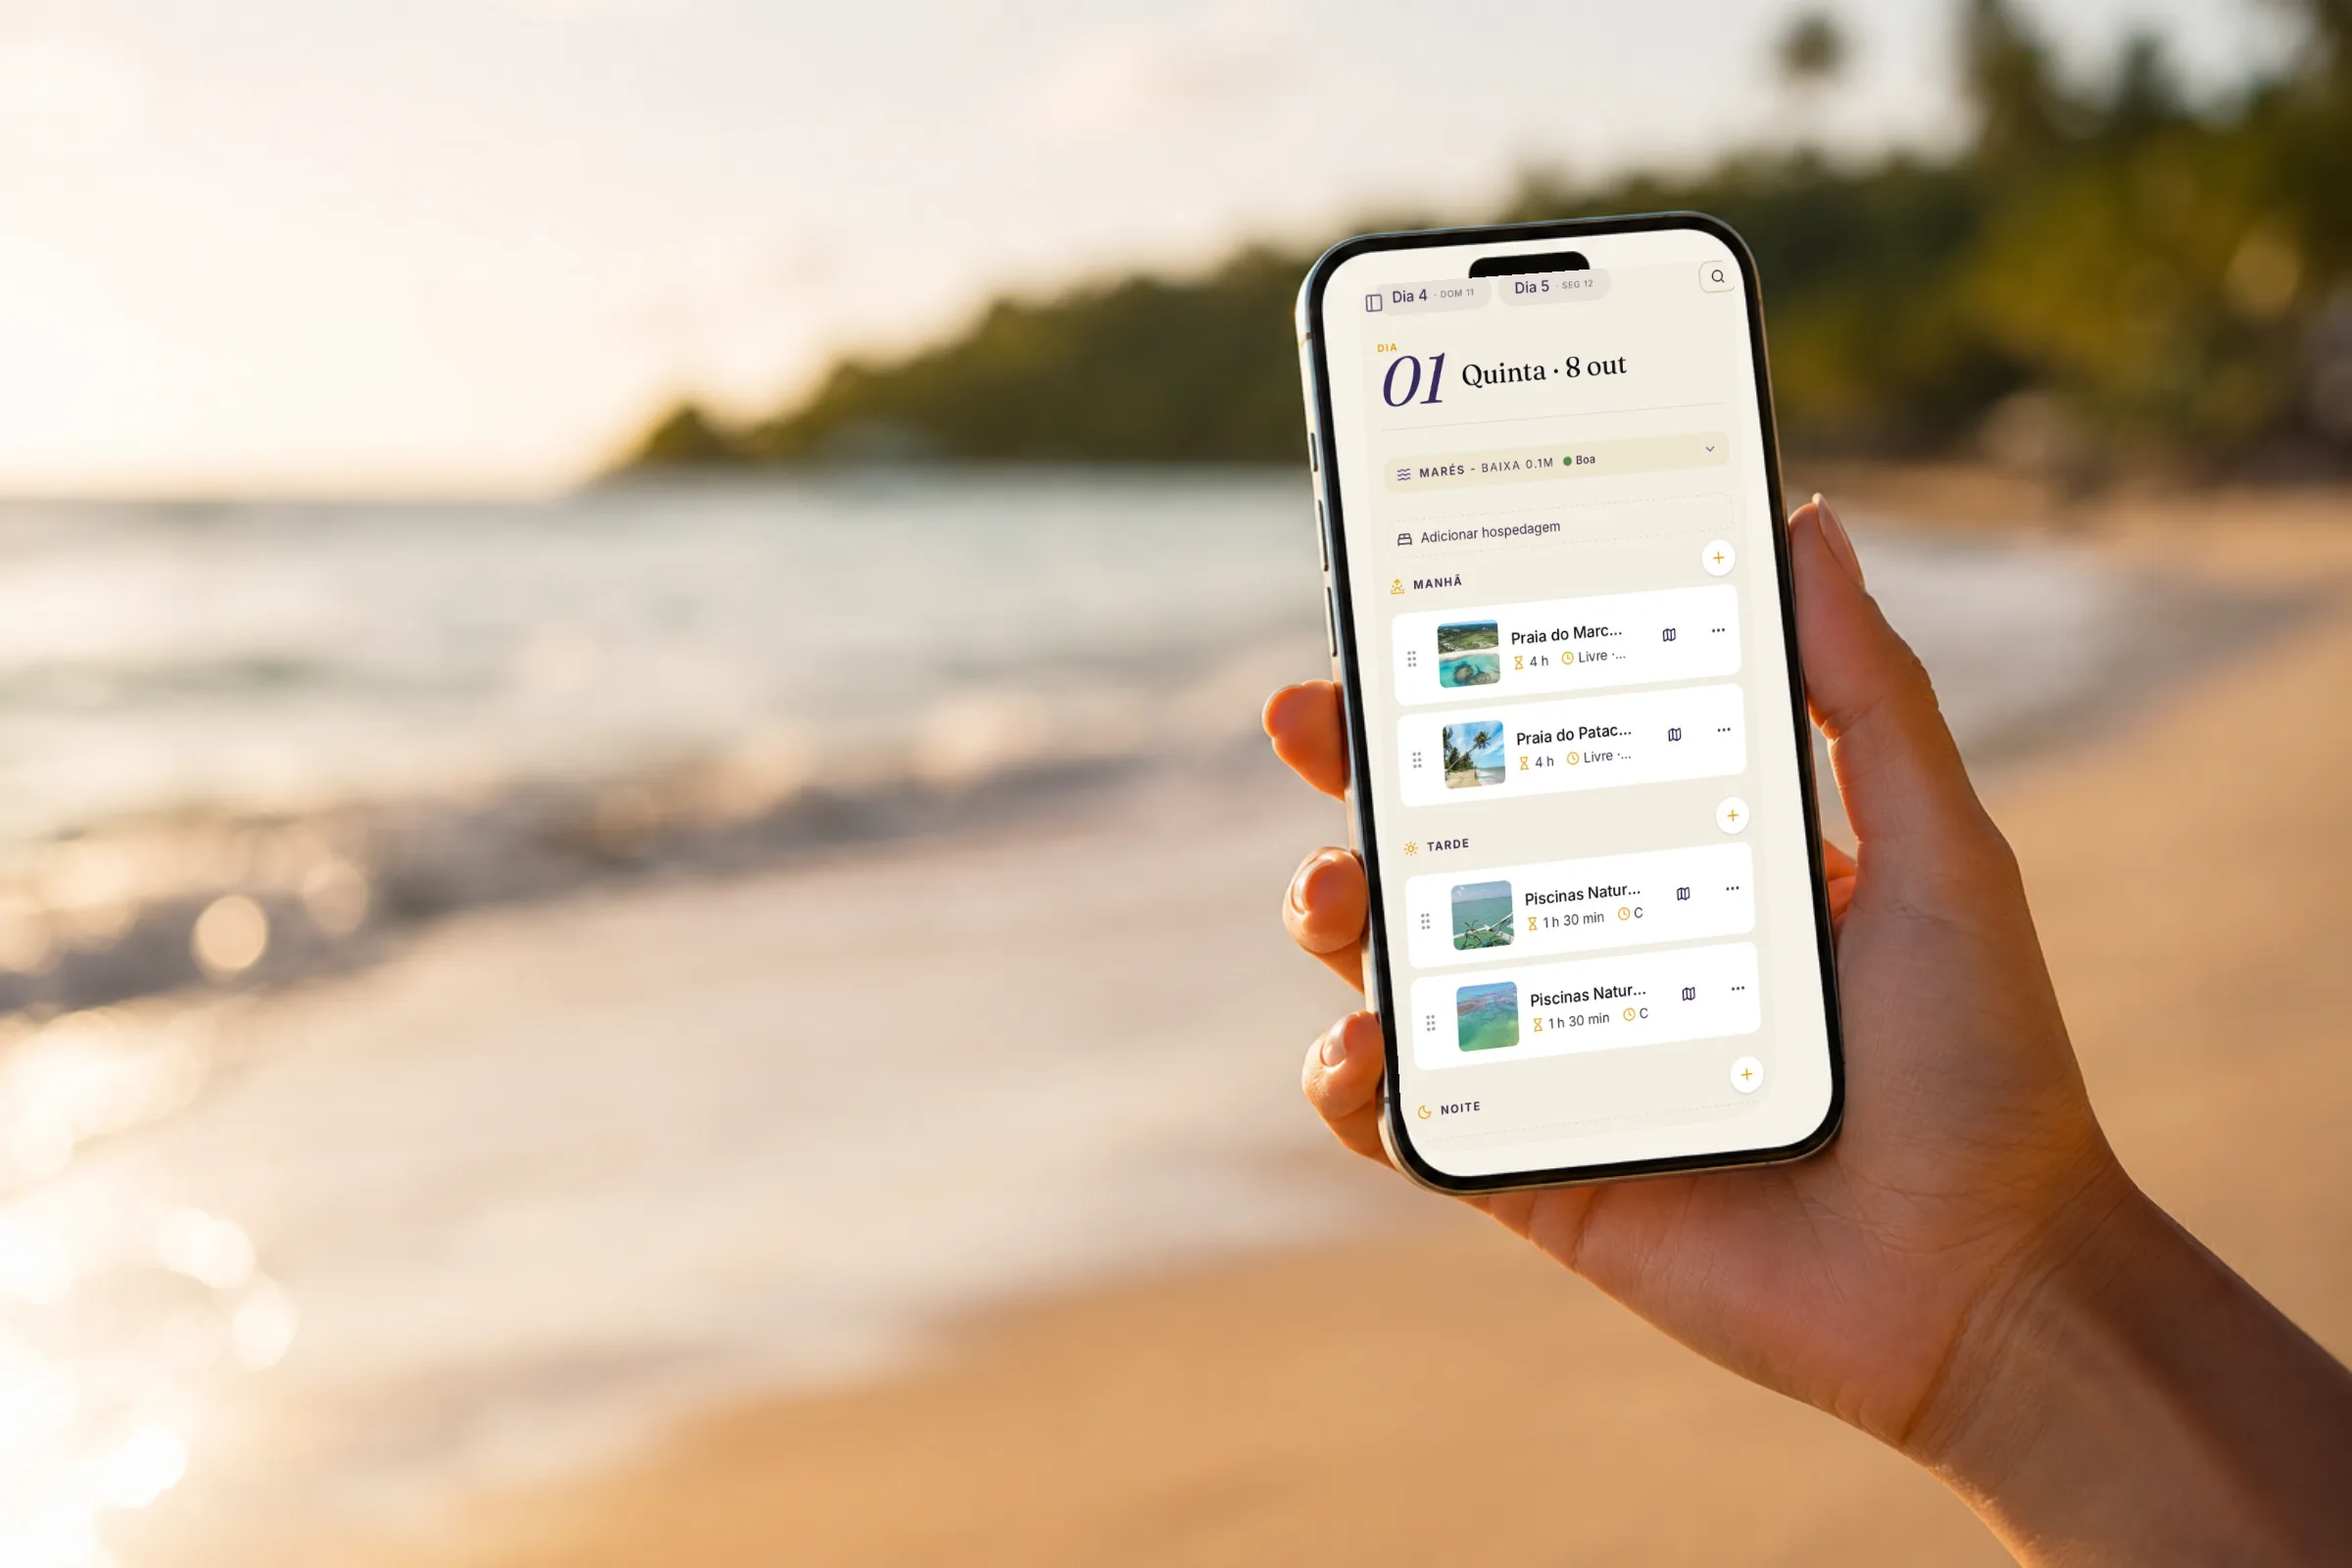
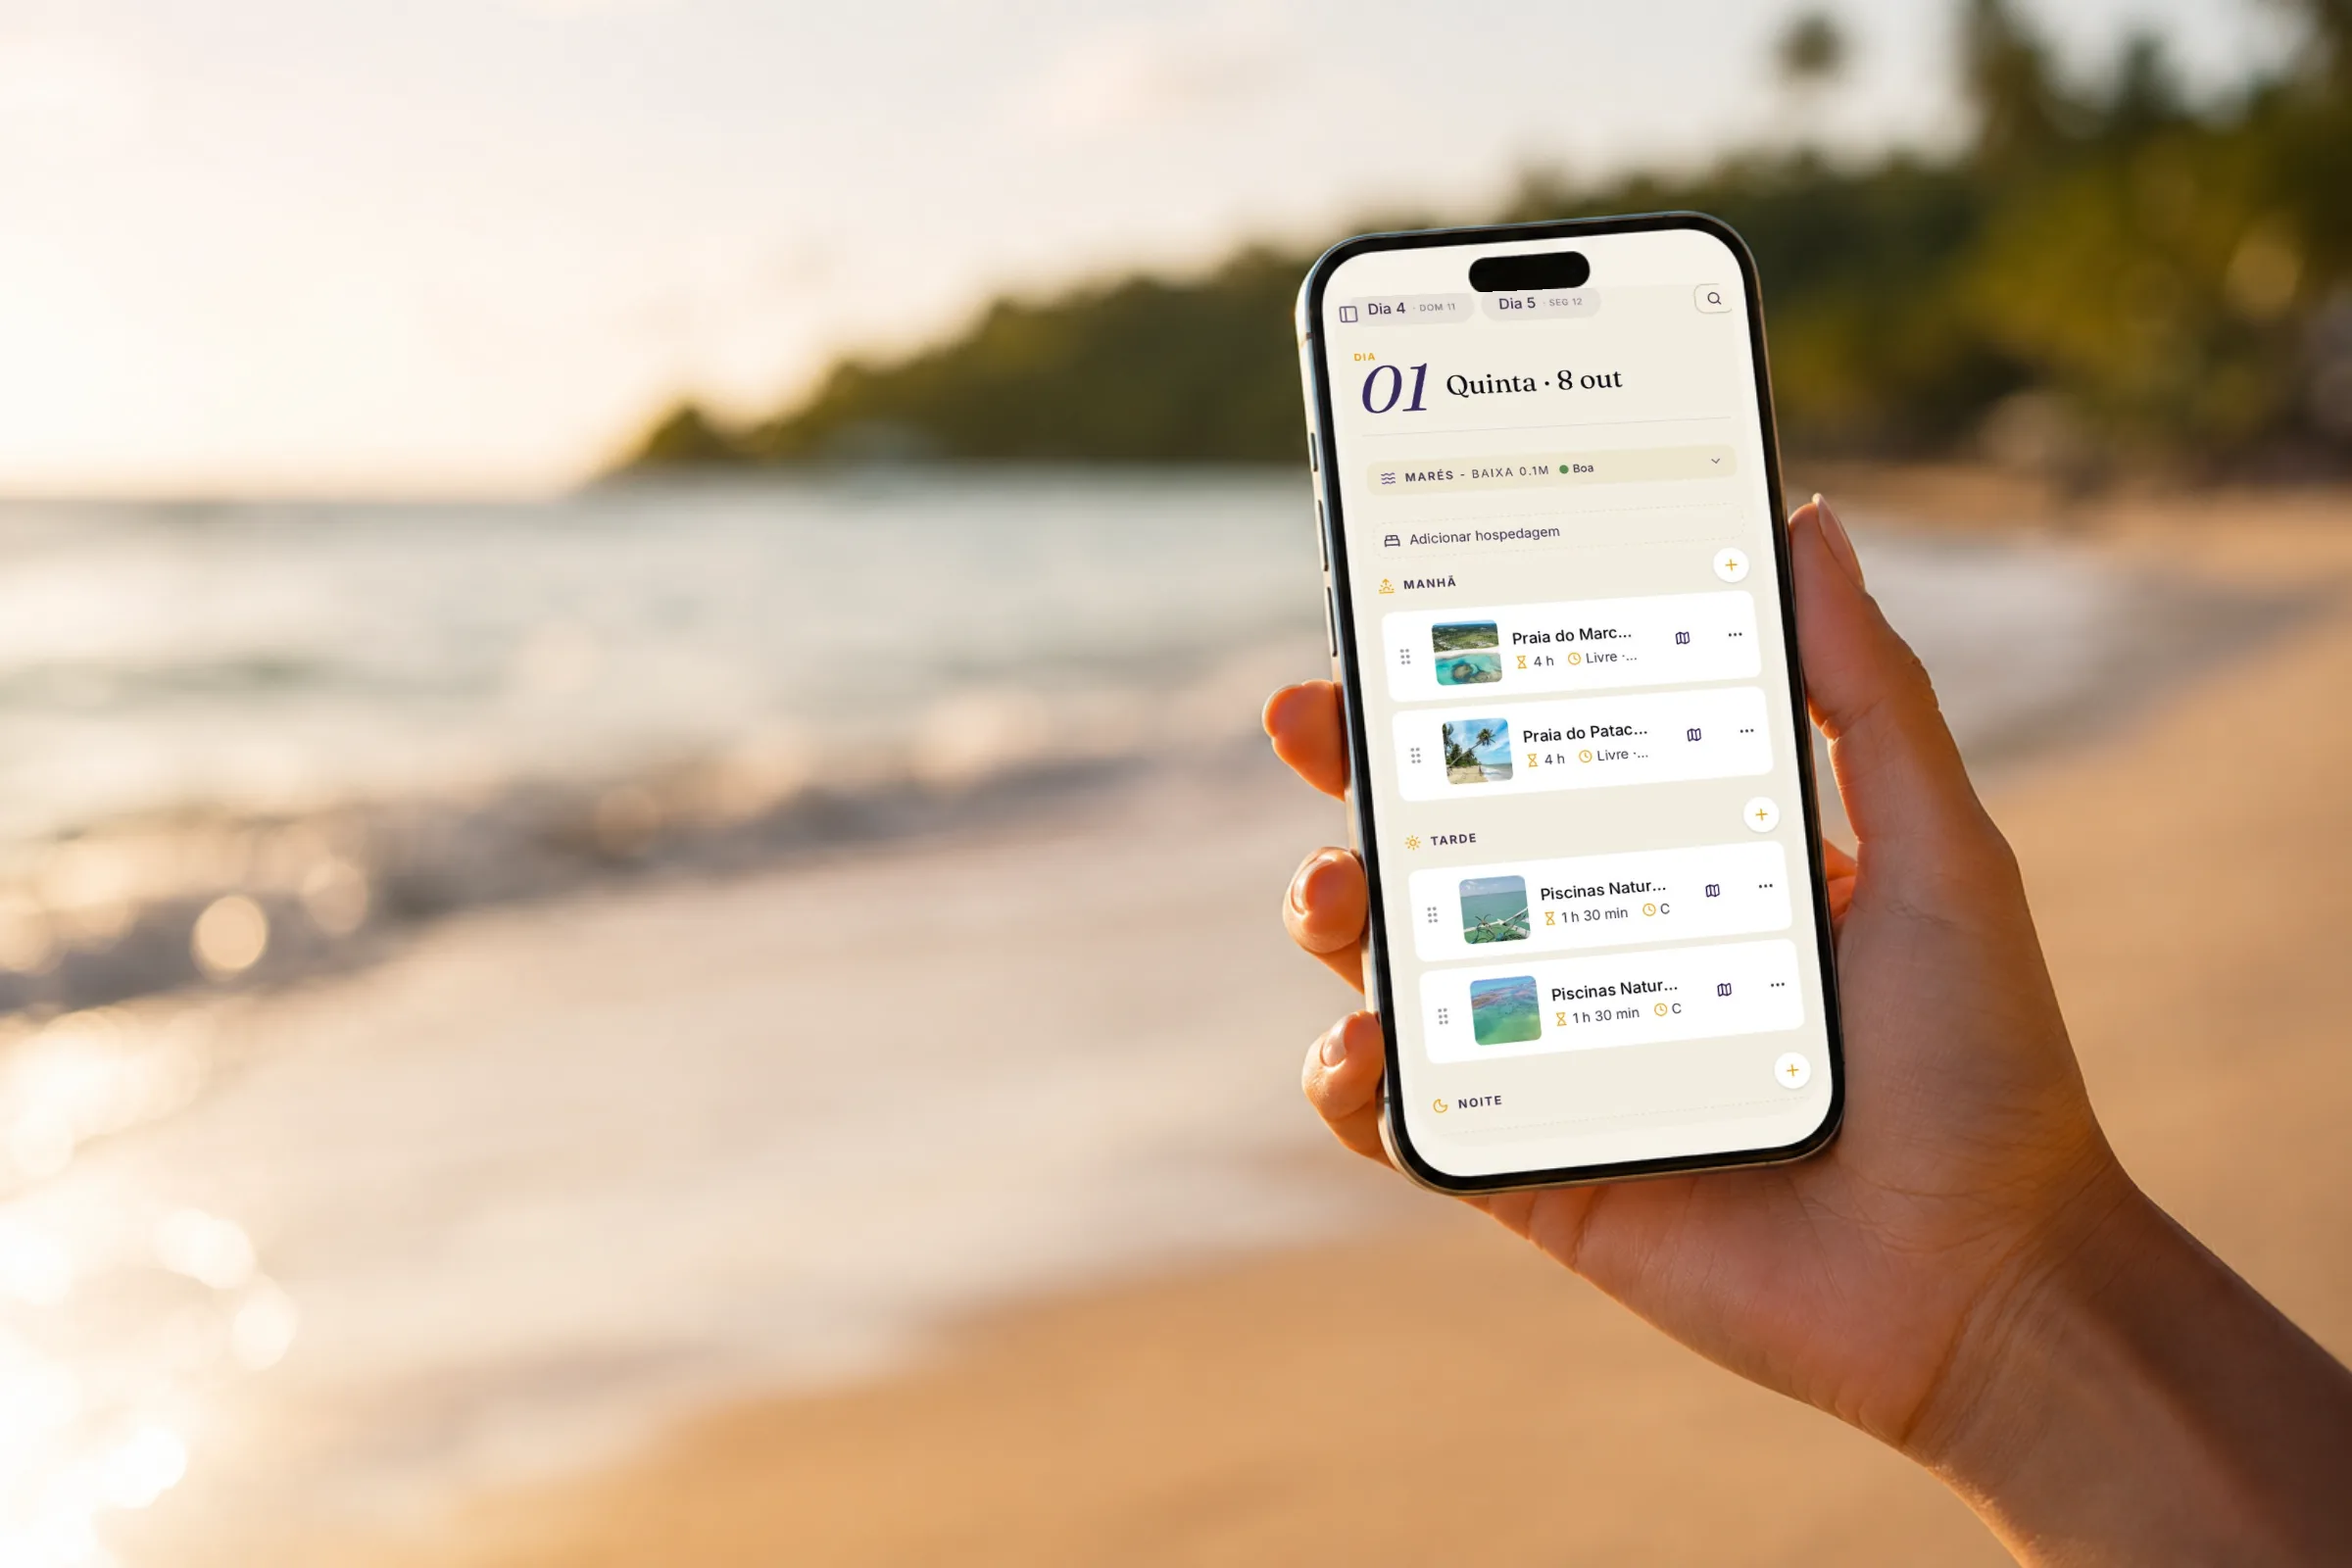
fix: perspectiva da tela casada com o vidro por medicao em grade 1:1
Cantos do vidro medidos com grade de coordenadas renderizada sobre a
base (diagnostico-grade.html); homografia remapeada; bordas validadas
em recorte 3x nas duas laterais e duas alturas.

diff --git a/biblioteca/pecas/2026/2026-08-07-mockup-guia-landing/diagnostico-grade.html b/biblioteca/pecas/2026/2026-08-07-mockup-guia-landing/diagnostico-grade.html
@@ -1,0 +1,29 @@
+<!doctype html>
+<html>
+<head>
+<meta charset="utf-8">
+<title>Diagnóstico — grade de medição</title>
+<style>
+  * { margin: 0; }
+  body { width: 1536px; height: 1024px; position: relative; }
+  img { position: absolute; inset: 0; width: 1536px; height: 1024px; }
+  .grade {
+    position: absolute; inset: 0;
+    background:
+      repeating-linear-gradient(to right, rgba(0,255,255,0.55) 0 1px, transparent 1px 16px),
+      repeating-linear-gradient(to bottom, rgba(0,255,255,0.55) 0 1px, transparent 1px 16px);
+  }
+  .grade-maior {
+    position: absolute; inset: 0;
+    background:
+      repeating-linear-gradient(to right, rgba(255,0,120,0.85) 0 1px, transparent 1px 80px),
+      repeating-linear-gradient(to bottom, rgba(255,0,120,0.85) 0 1px, transparent 1px 80px);
+  }
+</style>
+</head>
+<body>
+  <img src="base-mao-ia.png">
+  <div class="grade"></div>
+  <div class="grade-maior"></div>
+</body>
+</html>

diff --git a/biblioteca/pecas/2026/2026-08-07-mockup-guia-landing/fonte-mao.html b/biblioteca/pecas/2026/2026-08-07-mockup-guia-landing/fonte-mao.html
@@ -60,8 +60,11 @@
       elt.style.transform = 'matrix3d(' + t.join(',') + ')';
     }
     // Cantos da tela do iPhone no quadro 1200×800: TL, TR, BL, BR
+    // Cantos medidos por grade 1:1 sobre a base (diagnostico-grade.html):
+    // vidro em 1200×800 = TL(674,129) TR(887,120) BL(720,594) BR(939,572);
+    // overlay com inset e folga para a ilha no topo.
     transform2d(document.getElementById('tela'),
-      693,146,  884,132,  716,591,  908,568);
+      679,152,  882,144,  724,588,  934,566);
   </script>
 </body>
 </html>
